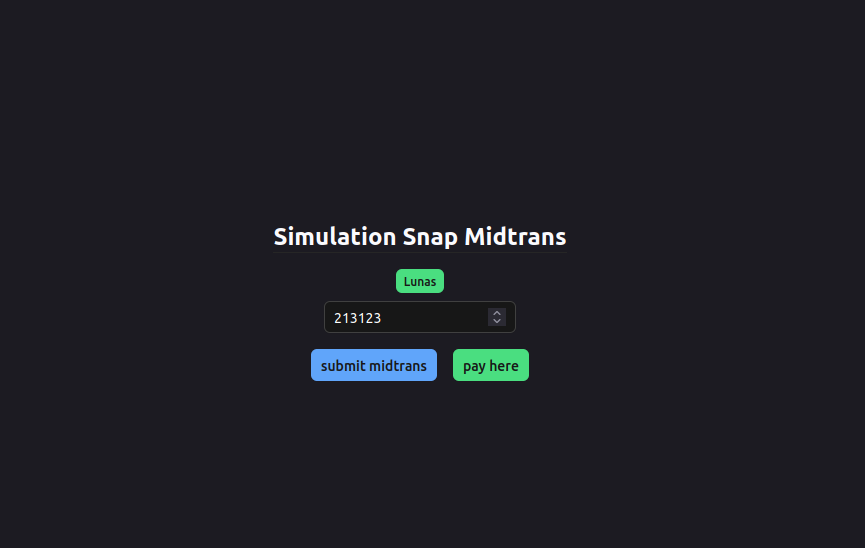
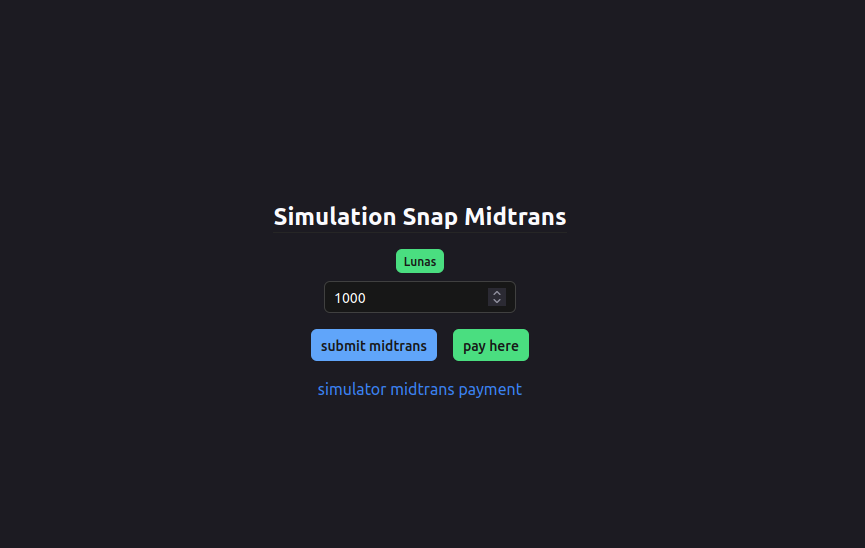
update readme and add website

Changed region(s): [[0.3121, 0.3723, 0.6555, 0.7445]]

diff --git a/pages/index.vue b/pages/index.vue
@@ -18,6 +18,9 @@
                 <UButton @click="submitMidtrans" color="blue">submit midtrans</UButton>
                 <UButton :disabled="!link" @click="onPay">pay here</UButton>
             </div>
+            <h1 class="mt-4">
+                <NuxtLink target="_blank" to="https://simulator.sandbox.midtrans.com/qris/index" class="text-blue-500 hover:underline">simulator midtrans payment</NuxtLink>
+            </h1>
         </div>
     </div>
 </template>
@@ -74,7 +77,6 @@ async function checkMidtrans(data: any) {
         body: { data }
     });
 
-    // @t
     const message = res.status;
     if (message) {
         useToast().add({ id: 'status', title: 'status', description: message });

diff --git a/README.md b/README.md
@@ -2,3 +2,20 @@
 
 ![image](/public/simulation.png)
 
+
+## installation
+
+provide your api key to `.env`
+```bash
+cp .env.example .env
+```
+
+install and run
+```bash
+npm install
+npm run dev
+```
+
+## demo
+
+click [here](https://test-midtrans.vercel.app/) to see website
